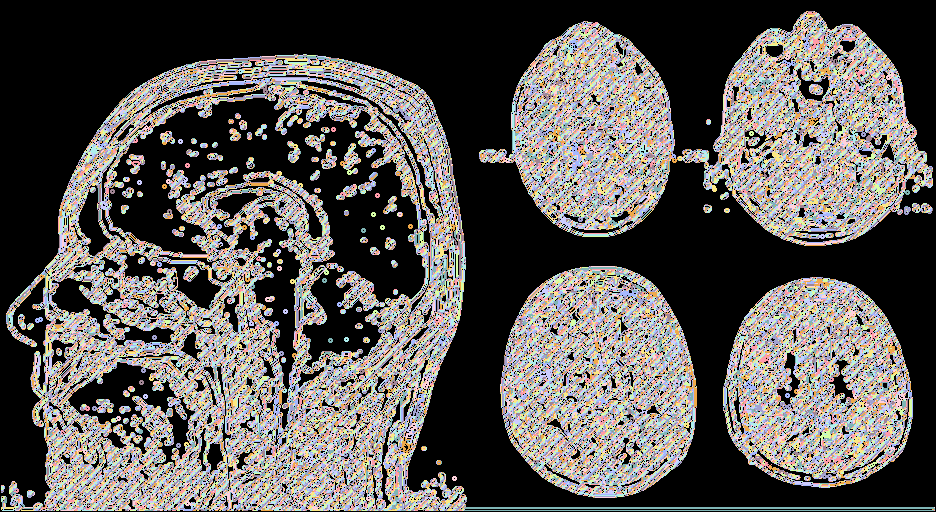
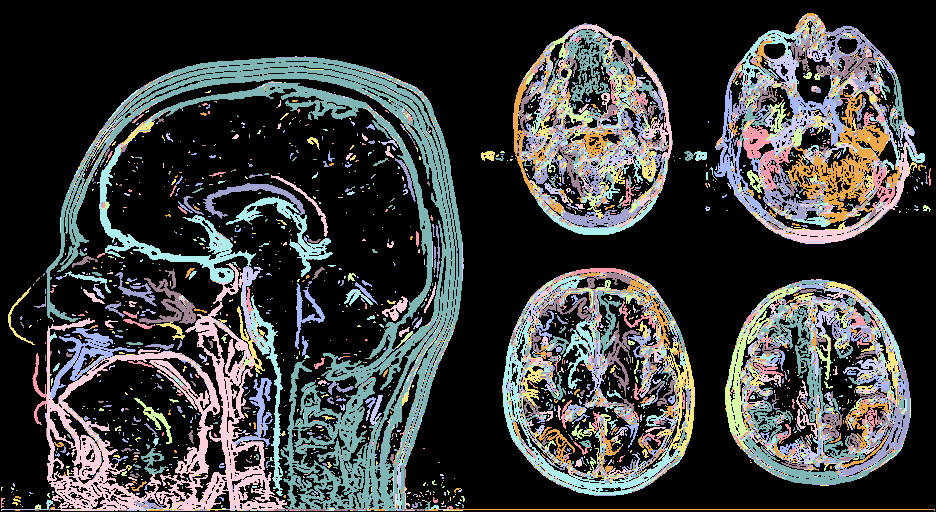
Big Task

diff --git a/Project.c b/Project.c
@@ -159,7 +159,7 @@ void color(dsu_elem* DSU, int width, int height, unsigned char* output_image){
 
   int main() 
 { 
-  const char* filename = "second.png"; 
+  const char* filename = "first.png"; 
   unsigned int width, height;
   int size;
   int bw_size;
@@ -185,7 +185,7 @@ void color(dsu_elem* DSU, int width, int height, unsigned char* output_image){
   unsigned char* output_image = malloc(sizeof(unsigned char) * 4 * width * height);
   color(DSU, width, height, output_image);
 
-  write_png("Final_Skull_2.png", output_image, width, height);
+  write_png("Final_Skull.png", output_image, width, height);
 
   free(sobel_image);
   free(output_image);
